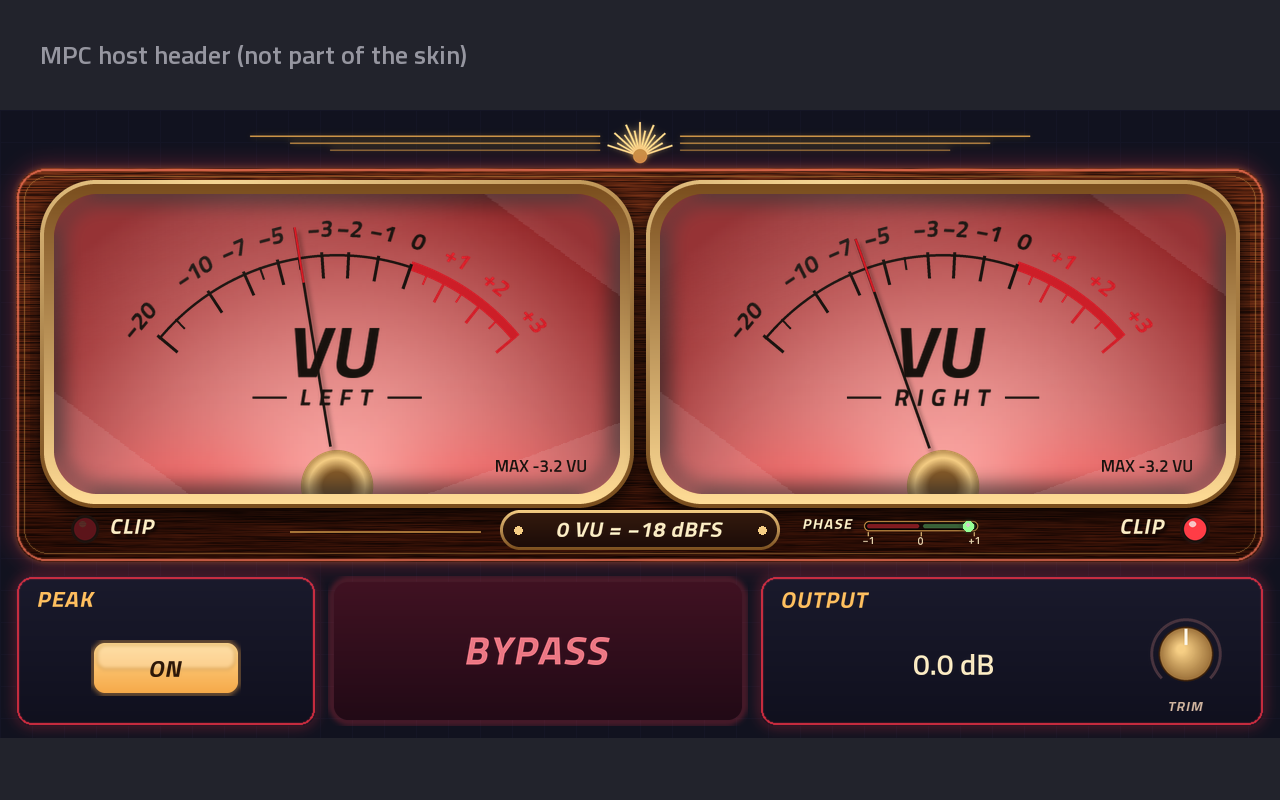
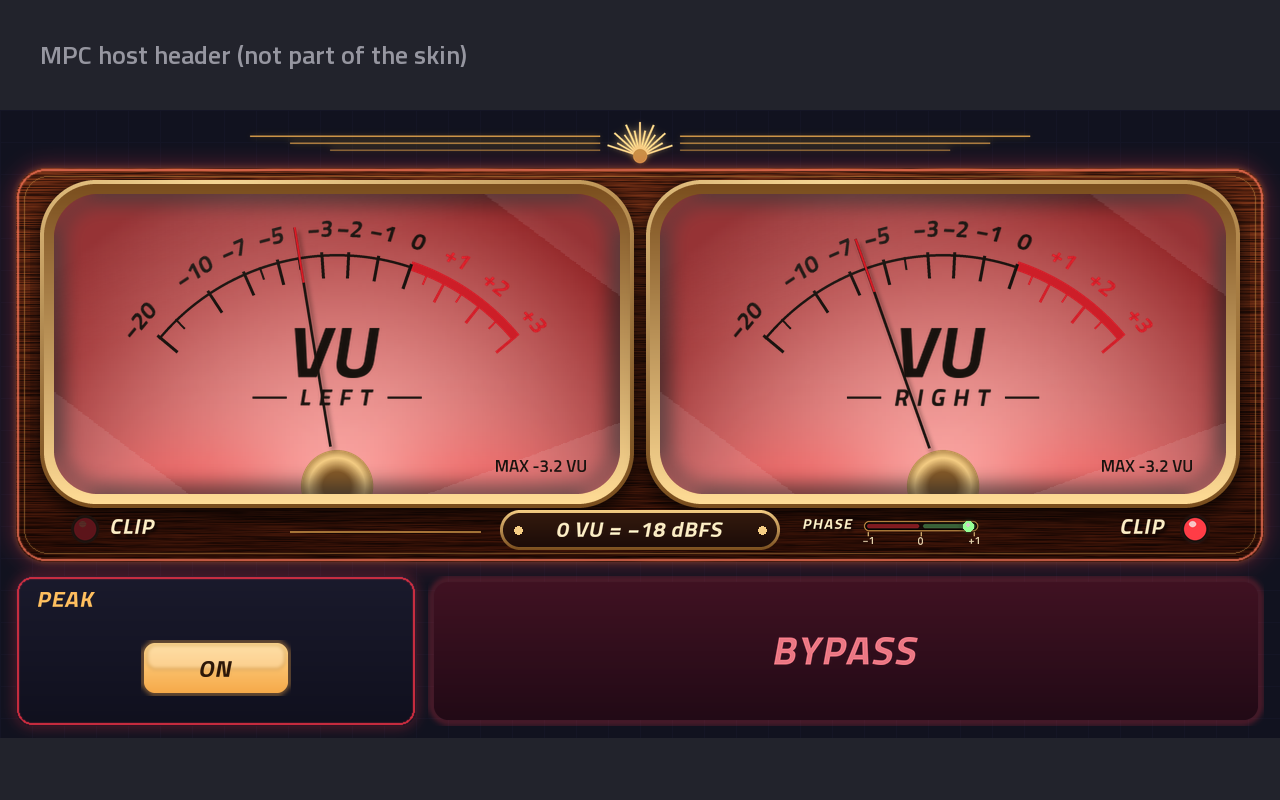
METER: remove the OUTPUT card (TRIM knob + value); PEAK | BYPASS fill the strip. TRIM lives on the LUFS tab

Changed region(s): [[0.5625, 0.7188, 1.0, 0.9375], [0.0625, 0.7188, 0.4688, 0.9375]]

diff --git a/scripts/gen_skins.py b/scripts/gen_skins.py
@@ -10,7 +10,7 @@ METER tab:
     chosen by the plugin-computed View parameter
   * needle sector filmstrips (4 per needle), clip lamps + RESET CLIP tap areas, plate,
     PHASE meter, MAX readouts
-  * control strip: PEAK | BYPASS | OUTPUT (trim value, trim knob)
+  * control strip: PEAK | BYPASS
 LUFS tab:
   * the same dials at 0.8 scale (shared needle and glow strips; caption-free faces), clip lamps
   * smoked-glass tuning strip: INTEGRATED | SHORT-TERM | TRUE PEAK MAX | GAIN REDUCTION
@@ -128,17 +128,9 @@ def main():
     for i in range(3):
         comps.append(image('plate %d' % i, 'plate_%d.png' % i, L.PLATE, only=when('0 VU', i, 3)))
 
-    # control strip: PEAK | BYPASS | OUTPUT
+    # control strip: PEAK | BYPASS (TRIM is on the LUFS tab)
     comps.append(button('peak', 'peak', 1, 1, P('Peak Hold'), L.PEAK_BUTTON))
     comps.append(button('bypass', 'bypass', 1, 1, P('Bypass'), L.BYPASS_BUTTON))
-    comps.append(entry('trim knob', 'Knob', {'version': 3, 'knobType': 'FilmStrip', 'filmStrip': 'knob_trim.png',
-                                             'numFrames': 127, 'invert': False, 'dragOrientation': 'Vertical',
-                                             'handleName': P('Trim')}, L.KNOB, show='Hide', focus='Yes'))
-    comps.append(entry('trim value', 'Label', {
-        'version': 1,
-        'textStyle': {'version': 1, 'font': {'version': 1, 'name': 'Titillium Web', 'style': 'SemiBold', 'height': 30.0},
-                      'colour': L.argb(L.CREAM), 'justification': 'horizontallyCentred verticallyCentred', 'case': 'Original'},
-        'type': 'Value', 'handleName': P('Trim')}, L.TRIM_VALUE, show='Hide'))
 
     # phase correlation
     comps.append(filmstrip('phase', 'corr.png', L.CORR_STEPS + 1, P('Correlation'), L.CORR))
@@ -246,7 +238,7 @@ def main():
 
     # Q-Links: top row follows the strip left to right; read-only displays and the trigger stay unassigned.
     q = {'Q-Link %d' % i: -1 for i in range(1, 17)}
-    for ql, name in ((13, 'Peak Hold'), (14, 'Bypass'), (15, 'Trim')):
+    for ql, name in ((13, 'Peak Hold'), (14, 'Bypass')):
         q['Q-Link %d' % ql] = IDX[name]
     q2 = {'Q-Link %d' % i: -1 for i in range(1, 17)}
     for ql, name in ((13, '0 VU'), (14, 'Clip Level'), (15, 'Light'), (16, 'Palette'), (9, 'Cycle Rate')):

diff --git a/scripts/skin_layout.py b/scripts/skin_layout.py
@@ -143,11 +143,10 @@ CABINET_INNER = (30, 70, 1220, 368)            # region covered by the per-view 
 
 STRIP_Y, STRIP_H = 466, 150                    # METER control strip: PEAK | BYPASS | OUTPUT
 CARDS = {                                      # x, width (12 px gaps, 16 px page margins)
-    'peak':   (16, 300),
-    'bypass': (328, 420),
-    'output': (760, 504),
+    'peak':   (16, 400),
+    'bypass': (428, 836),
 }
-CARD_TITLES = {'peak': 'PEAK', 'output': 'OUTPUT'}
+CARD_TITLES = {'peak': 'PEAK'}                 # (TRIM lives on the LUFS tab)
 
 
 def card_rect(name):
@@ -158,9 +157,6 @@ def card_rect(name):
 PEAK_BUTTON = (CARDS['peak'][0] + (CARDS['peak'][1] - 150) // 2, STRIP_Y + 64, 150, 56)
 BYPASS_BUTTON = (CARDS['bypass'][0], STRIP_Y, CARDS['bypass'][1], STRIP_H)
 KNOB_SIZE = 76
-KNOB = (CARDS['output'][0] + CARDS['output'][1] - KNOB_SIZE - 40, STRIP_Y + 40, KNOB_SIZE, KNOB_SIZE)
-TRIM_CAPTION = (KNOB[0], KNOB[1] + KNOB_SIZE + 4, KNOB_SIZE, 20)       # burned "TRIM" under the knob
-TRIM_VALUE = ((CARDS['output'][0] + KNOB[0]) // 2 - 90, STRIP_Y + 64, 180, 48)   # live Label, centred left of the knob
 CORR = (800, 401, 190, 38)                                             # phase correlation strip (bottom rail)
 CORR_STEPS = 21                                                        # must match the plugin (0 = no signal)
 MAX_LABEL_W, MAX_LABEL_H = 150, 24                                     # MAX VU readouts (lower-right of each dial)

diff --git a/scripts/make_skin_art.py b/scripts/make_skin_art.py
@@ -186,10 +186,7 @@ def make_background():
         rd.line([(x0, 421), (x1, 421)], fill=L.BRASS + (200,), width=2)
     bg.alpha_composite(rail)
 
-    for name in ('peak', 'output'):
-        card(bg, L.card_rect(name), L.CARD_TITLES[name])
-    tx, ty, tw, th = L.TRIM_CAPTION
-    put_text(bg, 'TRIM', 14, (196, 170, 150, 255), (tx + tw / 2.0, ty + th / 2.0), tracking=0.08)
+    card(bg, L.card_rect('peak'), L.CARD_TITLES['peak'])
     return bg
 
 
@@ -824,10 +821,6 @@ def compose(bg, faces, mode, light_i, vus, cal=1, heat=0.0, clip=True, hue=0.0, 
         page.alpha_composite(img, (x + (w - img.size[0]) // 2, y + (h - img.size[1]) // 2))
     btn('peak', L.PEAK_BUTTON, True)
     btn('bypass', L.BYPASS_BUTTON, False)
-    knob = Image.open(os.path.join(OUT, 'knob_trim.png'))
-    page.alpha_composite(knob.crop((0, 63 * L.KNOB_SIZE, L.KNOB_SIZE, 64 * L.KNOB_SIZE)), L.KNOB[:2])
-    tx, ty, tw, th = L.TRIM_VALUE
-    put_text(page, '0.0 dB', 30, L.CREAM + (255,), (tx + tw / 2.0, ty + th / 2.0), slant=0.0, semi=True)
     screen = Image.new('RGBA', (L.W, 800), (34, 35, 44, 255))
     hdr = ImageDraw.Draw(screen)
     hdr.text((40, 34), 'MPC host header (not part of the skin)', fill=(150, 150, 160, 255), font=font(26, True))

diff --git a/docs/CONTROLS.md b/docs/CONTROLS.md
@@ -10,7 +10,6 @@ Signal chain: **in → AUTO gain + TRIM (one gain for L and R) → LIMITER → o
 |---|---|---|
 | **PEAK**: ON / OFF | 13 | ON holds a CLIP lamp for 2 s after a clipped sample. OFF lights it only while clipping happens. |
 | **BYPASS** | 14 | Output = input, bit for bit (AUTO, TRIM and LIMITER ignored). With LIMITER on the output is still delayed by its 3.2 ms so timing does not jump. The meters then show the input. |
-| **OUTPUT TRIM** ±12 dB | 15 | Output gain, smoothed over 20 ms (the same TRIM as on the LUFS tab). At 0.0 dB the audio passes through bit-exact. Turn it until the music hovers around 0 VU. |
 | CLIP lamps (tap) | – | Light when a sample reaches the CLIP LEVEL (sample peak, not true peak). Tap a lamp to reset it **and the MAX readings**. In REACT or CYCLE a clip also **flashes the dials white for one beat**. |
 | **MAX** readouts (in each dial) | – | The highest reading each needle has shown since the last lamp tap. It includes the needle's real overshoot. |
 | **PHASE** meter (bottom rail) | – | Stereo correlation: **+1** L and R identical (mono-safe), **0** wide or unrelated, **−1** cancels in mono (red zone). The marker parks when there's no signal. |
@@ -36,7 +35,7 @@ Layout: the readout strip holds the **measurement** controls at its left end (CL
 |---|---|---|
 | **AUTO**: ON / OFF | 16 | Off by default. Steers the **integrated** loudness towards TARGET with one gain for L and R. It listens to the **input** for at least 3 s of programme first (LEARNING), then moves at most 0.5 dB/s and only when it is more than 0.3 LU off. It holds during silence, never moves more than ±12 dB, and glides back to 0 dB when switched off. It never chases every bar: it follows the programme since CLEAR. It is a live best estimate; it cannot know what the rest of the song will do. |
 | **TARGET** ◀ ▶ | 13 | −23 … −9 LUFS in 0.5 steps (default −14). A starting point for music, not a platform rule. TARGET is unrelated to the VU CALIBRATION (0 VU = −18 dBFS is a different thing). |
-| **TRIM** | 15 | The same output TRIM as on METER. With AUTO on it is a deliberate offset: TARGET −14 with TRIM +1 gives about −13 LUFS. With AUTO off, turn TRIM up to drive the LIMITER on purpose. |
+| **TRIM** ±12 dB | 15 | Output gain, smoothed over 20 ms. At 0.0 dB (with AUTO off) the audio passes through bit-exact, and the METER needles show the trimmed output. With AUTO on it is a deliberate offset: TARGET −14 with TRIM +1 gives about −13 LUFS. With AUTO off, turn TRIM up to drive the LIMITER on purpose. |
 | **LIMITER**: ON / OFF | 9 | Off by default. A stereo-linked, true-peak-aware limiter (3 ms look-ahead, program-dependent release). It never changes the balance between L and R. **While on it adds about 3.2 ms of latency**, which is reported to the MPC. Switching it crossfades over 20 ms, so it does not click. |
 | **CEILING** ◀ ▶ | 14 | −6.0 … −0.1 dBTP in 0.1 steps (default −1.0). The highest true peak the LIMITER lets through. **With LIMITER off the ceiling does nothing**; watch for CLIP RISK. |
 | **CLEAR** | – | Restarts INTEGRATED, TRUE PEAK MAX, the elapsed time and AUTO's estimate. It never changes the gain, so the audio does not jump. Settings are untouched. |

diff --git a/README.md b/README.md
@@ -13,8 +13,8 @@ An analog-style VU meter insert effect for Akai MPC standalone (MPC OS 3.10.1+).
   - **React** makes the dials glow blue → red → purple as the program heats up, with filament-like warm-up and cool-down. ![react](docs/images/react.gif)
   - **Cycle** sweeps round the hue wheel once every two bars, locked to the MPC's tempo and song position. ![cycle](docs/images/cycle.gif)
 - **PHASE** correlation meter, **MAX** VU readouts, and a selectable **CLIP LEVEL** (0 / −0.3 / −1 / −3 dBFS).
-- **Three tabs.** METER has the dials, PHASE, MAX, CLIP lamps, PEAK, BYPASS and OUTPUT (TRIM). LUFS has the loudness readouts and the AUTO, TARGET, LIMITER, CEILING, TRIM, CLEAR and RUN/HOLD controls. SETUP has CALIBRATION, CLIP LEVEL and a LIGHT box grouped as STATIC (warm/cool/off), REACT with its palette, and CYCLE with its rate.
-- **Output TRIM** (±12 dB, smoothed; shared by METER and LUFS) and **BYPASS**. With TRIM at 0.0 dB (and AUTO off), or with Bypass on, the output is a **bit-exact** copy of the input. Every meter reads the output signal.
+- **Three tabs.** METER has the dials, PHASE, MAX, CLIP lamps, PEAK and BYPASS. LUFS has the loudness readouts and the AUTO, TARGET, TRIM, LIMITER, CEILING, CLEAR, RUN/HOLD and BYPASS controls. SETUP has CALIBRATION, CLIP LEVEL and a LIGHT box grouped as STATIC (warm/cool/off), REACT with its palette, and CYCLE with its rate.
+- **Output TRIM** (±12 dB, smoothed; on the LUFS tab) and **BYPASS** (on both tabs, one setting). With TRIM at 0.0 dB (and AUTO off), or with Bypass on, the output is a **bit-exact** copy of the input. Every meter reads the output signal.
 
 | METER | LUFS | SETUP |
 |---|---|---|

diff --git a/docs/SPIKE.md b/docs/SPIKE.md
@@ -41,7 +41,7 @@ These questions can only be answered on a real MPC, ideally a Live III, and an X
 | 3 | Play program material | Needles move smoothly at about 30 FPS. No tearing, no blank frames, and no doubled needle at sector boundaries (watch around −10, −3, 0 and +1) |
 | 4 | Switch between METER and SETUP during playback | Both tabs draw fully; the meters keep moving when you return; audio is unaffected |
 | 5 | On SETUP, tap WARM / COOL / OFF, then return to METER | The correct face appears with no flash of another face |
-| 6 | Turn the TRIM knob and its Q-Link; tap BYPASS | Value label updates; the needle follows the trim; bypass returns the needle to the input level |
+| 6 | On LUFS, turn the TRIM knob and its Q-Link; tap BYPASS (on either tab) | Value label updates; the METER needles follow the trim; bypass returns them to the input level, and both BYPASS buttons light |
 | 7 | Clip the input (for example +6 dB trim on a hot loop) | The CLIP lamp lights and holds for about 2 s. Tapping the lamp clears it. Anti-phase clip still lights INPUT CLIP |
 | 8 | Check memory and responsiveness | Note memory % before and after opening the plugin and after the view swaps, the page open time, and whether touch and data-wheel response stays crisp while needles move |
 | 9 | Save the project, restart the MPC, reload | 0 VU, Peak, Light, Palette, Rate, Clip Level, Trim and Bypass are restored; needles start at rest |
